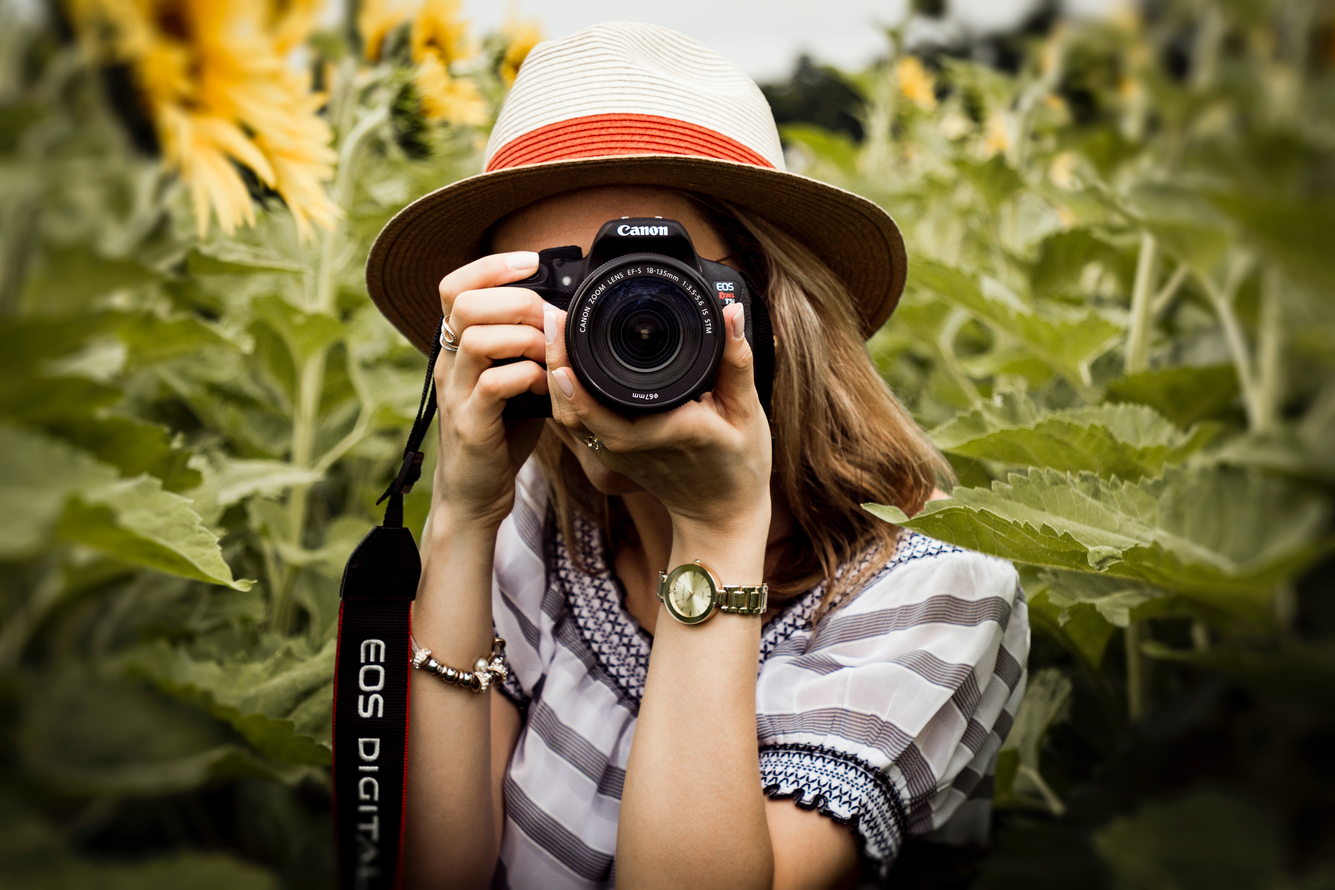
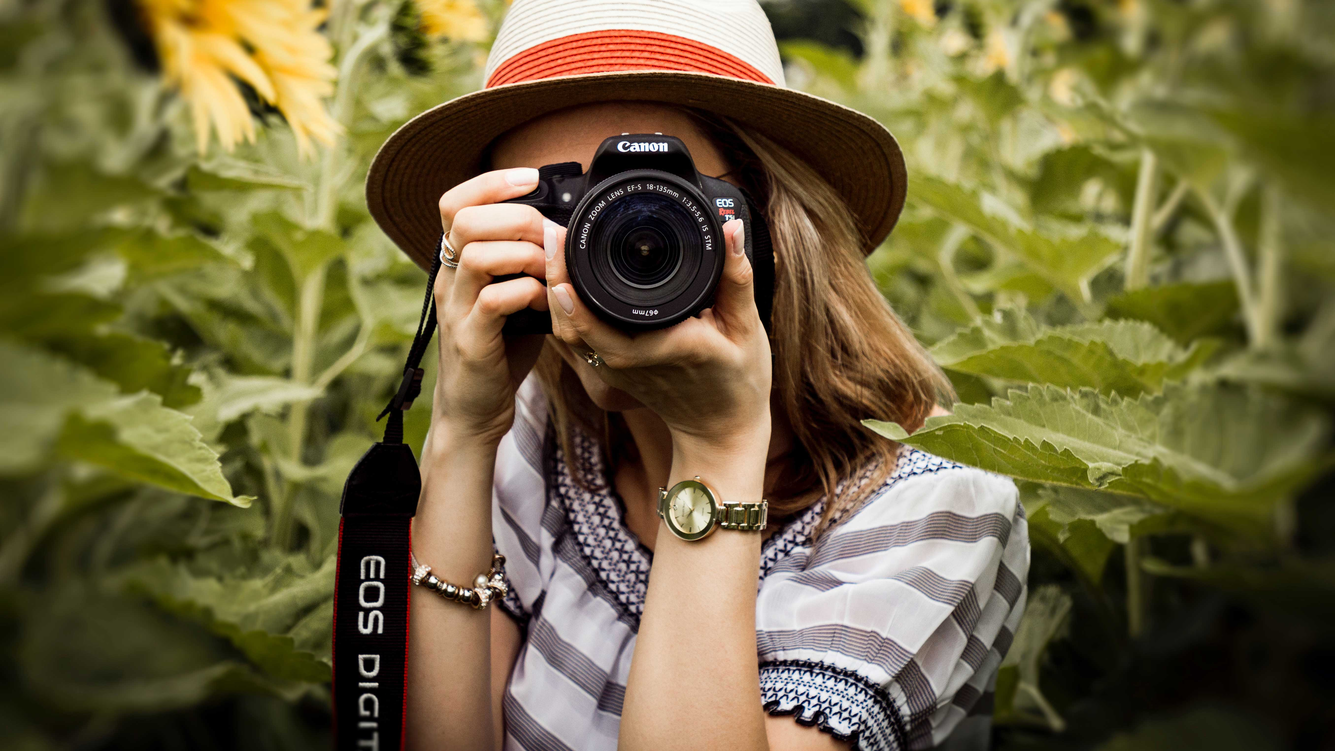
Corrección de relación de fotos en About us

diff --git a/pages/about-us.html b/pages/about-us.html
@@ -8,8 +8,10 @@
     <link href="https://cdn.jsdelivr.net/npm/bootstrap@5.3.2/dist/css/bootstrap.min.css" rel="stylesheet"
         integrity="sha384-T3c6CoIi6uLrA9TneNEoa7RxnatzjcDSCmG1MXxSR1GAsXEV/Dwwykc2MPK8M2HN" crossorigin="anonymous">
     <link rel="stylesheet" href="../css/style.css">
-    <meta name="description" content="Discover the story behind Sally Bee PH&Design. Learn about our mission, values, and the passionate team driving our success. Explore our journey, commitment to excellence, and how we strive to make a positive impact. Get to know us better and understand why Sally Bee is your trusted partner for photos.">
-    <meta name="keywords" content="history, about us, team, values, motivation, mision, mision and vision, vision, corporate values, meet the team, core values, corporate philosophy">
+    <meta name="description"
+        content="Discover the story behind Sally Bee PH&Design. Learn about our mission, values, and the passionate team driving our success. Explore our journey, commitment to excellence, and how we strive to make a positive impact. Get to know us better and understand why Sally Bee is your trusted partner for photos.">
+    <meta name="keywords"
+        content="history, about us, team, values, motivation, mision, mision and vision, vision, corporate values, meet the team, core values, corporate philosophy">
 </head>
 
 
@@ -24,7 +26,8 @@
 
             <!-- Logo -->
             <div class="d-flex justify-content-center col-sm-12 col-md-12 col-lg-12 col-xl-12 col-xxl-12">
-                <img class="logo" src="../assets/imagotipo.png" alt="Representative brand logo. Reads Sally Bee PH & Design.">
+                <img class="logo" src="../assets/imagotipo.png"
+                    alt="Representative brand logo. Reads Sally Bee PH & Design.">
             </div>
 
             <!-- Navegacion -->
@@ -59,22 +62,37 @@
                         aria-current="true" aria-label="Slide 3"></button>
                     <button type="button" data-bs-target="#carouselIndicators" data-bs-slide-to="3" class="active"
                         aria-current="true" aria-label="Slide 4"></button>
+                        <button type="button" data-bs-target="#carouselIndicators" data-bs-slide-to="4" class="active"
+                        aria-current="true" aria-label="Slide 5"></button>
+                    <button type="button" data-bs-target="#carouselIndicators" data-bs-slide-to="5" class="active"
+                        aria-current="true" aria-label="Slide 6"></button>
 
                 </div>
                 <div class="carousel-inner">
                     <div class="carousel-item active">
-                        <img src="../assets/images/equipo/hequipo1.jpg" class="d-block w-100" alt="A group of four people working together around an office table with their notebooks.">
+                        <img src="../assets/images/equipo/hequipo1.jpg" class="d-block w-100"
+                            alt="A group of four people working together around an office table with their notebooks.">
                     </div>
                     <div class="carousel-item">
-                        <img src="../assets/images/equipo/hequipo10.jpg" class="d-block w-100" alt="A woman with the camera at hand taking a picture around a field of sunflowers.">
+                        <img src="../assets/images/equipo/hequipo10.jpg" class="d-block w-100"
+                            alt="A woman with the camera at hand taking a picture around a field of sunflowers.">
                     </div>
                     <div class="carousel-item">
-                        <img src="../assets/images/equipo/hequipo13.jpg" class="d-block w-100" alt="A woman looking at her camera after taking a picture in a foggy landscape.">
+                        <img src="../assets/images/equipo/hequipo13.jpg" class="d-block w-100"
+                            alt="A woman looking at her camera after taking a picture in a foggy landscape.">
                     </div>
                     <div class="carousel-item">
-                        <img src="../assets/images/equipo/hequipo14.jpg" class="d-block w-100" alt="A group of four people working together while they smile and have coffee together.">
+                        <img src="../assets/images/equipo/hequipo14.jpg" class="d-block w-100"
+                            alt="A group of four people working together while they smile and have coffee together.">
                     </div>
-
+                    <div class="carousel-item">
+                        <img src="../assets/images/equipo/hequipo12.jpg" class="d-block w-100"
+                            alt="A man holding a camera and looking at it. In the background there is a white sky and some buildings.">
+                    </div>
+                    <div class="carousel-item">
+                        <img src="../assets/images/equipo/hequipo9.jpg" class="d-block w-100"
+                            alt="Two woman siting in chairs with a computer in the middle of them. Behind them theres a light pink wall. They are smiling while working.">
+                    </div>
                 </div>
                 <button class="carousel-control-prev" type="button" data-bs-target="#carouselIndicators"
                     data-bs-slide="prev">
@@ -90,19 +108,24 @@
 
             <div class="container col-sm-12 col-md-12 col-lg-12 mt-5 mb-5">
                 <h3 class="text-center">Our team, our history</h3>
-                <p><strong>Sally Bee</strong> was born as a catalyst for dreams that have led us to travel new directions and portray
+                <p><strong>Sally Bee</strong> was born as a catalyst for dreams that have led us to travel new
+                    directions and portray
                     everything that crosses our path.
                 </p>
                 <p>Today, the course of this adventure is marked by those who want to be part of this work team and by
-                    those who want to make us part of their lives to immortalize <strong>THEIR OWN ADVENTURE</strong>.</p>
+                    those who want to make us part of their lives to immortalize <strong>THEIR OWN ADVENTURE</strong>.
+                </p>
                 <p>With its founder known as Sally Bee, the venture adopted her pseudonym for greater and better
-                    recognition. Today Sally Bee is much more than a person, she is a <strong>team of dreamers</strong> who, like bees,
-                    symbols of <b>hard work</b>, a <b>strong work ethic and teamwork</b>, strive to grow and put their best into each
+                    recognition. Today Sally Bee is much more than a person, she is a <strong>team of dreamers</strong>
+                    who, like bees,
+                    symbols of <b>hard work</b>, a <b>strong work ethic and teamwork</b>, strive to grow and put their
+                    best into each
                     project.
 
                 </p>
                 <h3 class="text-center mt-5">What motivates us?</h3>
-                <p>We are convinced that life can be a wonderful adventure if we are willing to <b>pursue our dreams</b>. It is
+                <p>We are convinced that life can be a wonderful adventure if we are willing to <b>pursue our
+                        dreams</b>. It is
                     important for us to convey that everything is achievable if we make the effort. This is why our
                     principles are closely linked to the words of <b>Will Durant</b> and <b>Pablo Picasso</b>.</p>
             </div>
@@ -190,9 +213,11 @@
     <footer class="container-fluid text-center mt-auto">
         <div class="row p-5 pb-2  text-white justify-content-evenly">
             <div class="col-sm-12 col-lg-3">
-                <div><a href="#"><img src="../assets/logo-sinfondo.png" alt="Representative brand logo. Reads Sally Bee PH & Design."></a></div>
+                <div><a href="#"><img src="../assets/logo-sinfondo.png"
+                            alt="Representative brand logo. Reads Sally Bee PH & Design."></a></div>
                 <div class="mb-3">
-                    <a class="text-secondary-emphasis text-decoration-none"  href="https://maps.app.goo.gl/my8rAHaybL3Z8z2f6" target="_blank">Rosario, Argentina</a>
+                    <a class="text-secondary-emphasis text-decoration-none"
+                        href="https://maps.app.goo.gl/my8rAHaybL3Z8z2f6" target="_blank">Rosario, Argentina</a>
                 </div>
             </div>
             <div class="col-sm-12 col-lg-3">
